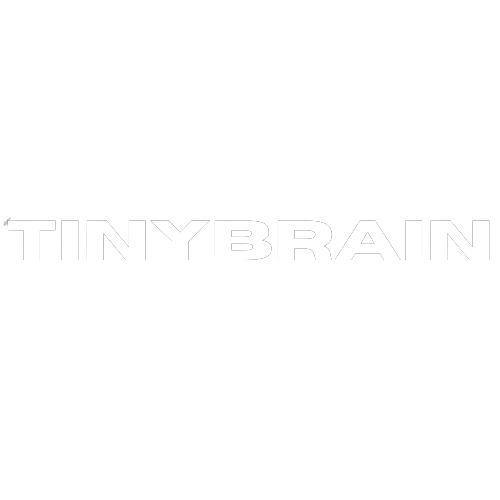
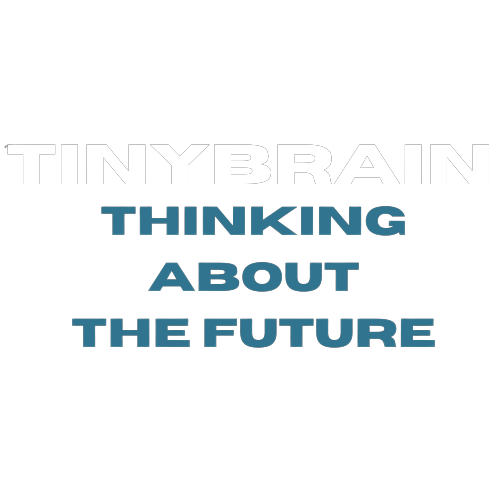
TODO: shadetext css is weird look at it later

diff --git a/cars-typescript/src/scenes/home/index.tsx b/cars-typescript/src/scenes/home/index.tsx
@@ -1,7 +1,10 @@
 import { SelectedPage } from '@/shared/types'
+import SponsorRedBull from '@/assets/SponsorRedBull.png'
 import useMediaQuery from '@/hooks/useMediaQuery'
 import BigButton from '@/shared/BigButton'
 import tinybraintext from '@/assets/tinybraintext.png'
+import AnchorLink from 'react-anchor-link-smooth-scroll'
+import homepage_img from '@/assets/homepage.jpg'
 type Props = {
     setSelectedPage: (value: SelectedPage) => void;
 }
@@ -14,13 +17,13 @@ const Home = ({setSelectedPage}: Props) => {
     className="gap-16 bg-rosePine-overlay pb-10 pt-10 md:h-full md:pb-0"
     >
       {/* Image header */}
-      <div>
+      <div className="md:flex mx-auto w-4/6 items-center justify-center md:h-5/6">
         {/* Main header */}
-        <div>
+        <div className="z-10 mt-32 md:basis-3/5">
           {/* Headings */}
-          <div>
-            <div>
-              <div>
+          <div className="md:-mt-20">
+            <div className="relative">
+              <div className="before:absolute before:top-2 before:right-20 before:content-shadetext">
                 <img alt="tinybrain text" src={tinybraintext} />
               </div>
             </div>
@@ -32,15 +35,32 @@ const Home = ({setSelectedPage}: Props) => {
           <div>
             {/* Actions */}
             <BigButton setSelectedPage={setSelectedPage}>
-
+              Sign Up
             </BigButton>
+            <AnchorLink
+              className="text-sm font-bold text-rosePine-text underline hover:text-rosePine-love"
+              onClick={() => setSelectedPage(SelectedPage.AboutUs)}
+              href={`#${SelectedPage.AboutUs}`}
+            >
+              <p>Learn More</p>
+            </AnchorLink>
           </div>
         </div>
+        {/* Images */}
         <div>
-
+          <img alt = "graphic" src={homepage_img} />
         </div>
       </div>
-
+      {/* misc images */}
+      {biggerThanMediumScreen && (
+        <div>
+          <div>
+            <div>
+              <img alt="redbull" src={SponsorRedBull} />
+            </div>
+          </div>
+        </div>
+      )}
     </section>
 
   )

diff --git a/cars-typescript/src/scenes/navi/index.tsx b/cars-typescript/src/scenes/navi/index.tsx
@@ -18,7 +18,7 @@ const Navi = ({TopOfPage, selectedPage, setSelectedPage}: Props) => {
     const flexBetween = "flex items-center justify-between";
     const biggerThanMediumScreen = useMediaQuery("(min-width:1060px)")
     const [MenuToggle, setMenuToggle] = useState<boolean>(false);
-    const navBackground = TopOfPage ? "" : "bg-rosePine-love drop-shadow"
+    const navBackground = TopOfPage ? "" : "bg-rosePine-pine drop-shadow"
   return <nav>
     <div
         className={`${navBackground} ${flexBetween} fixed top-0 z-30 w-full py-8`}

diff --git a/cars-typescript/index.html b/cars-typescript/index.html
@@ -2,9 +2,9 @@
 <html lang="en">
   <head>
     <meta charset="UTF-8" />
-    <link rel="icon" type="image/svg+xml" href="/vite.svg" />
+    <link rel="icon" type="image/svg+xml" href="./src/assets/tinybrain.svg" />
     <meta name="viewport" content="width=device-width, initial-scale=1.0" />
-    <title>Tinybrain Typescript Adventures</title>
+    <title>Tinybrain Ltd.</title>
   </head>
   <body>
     <div id="root"></div>
